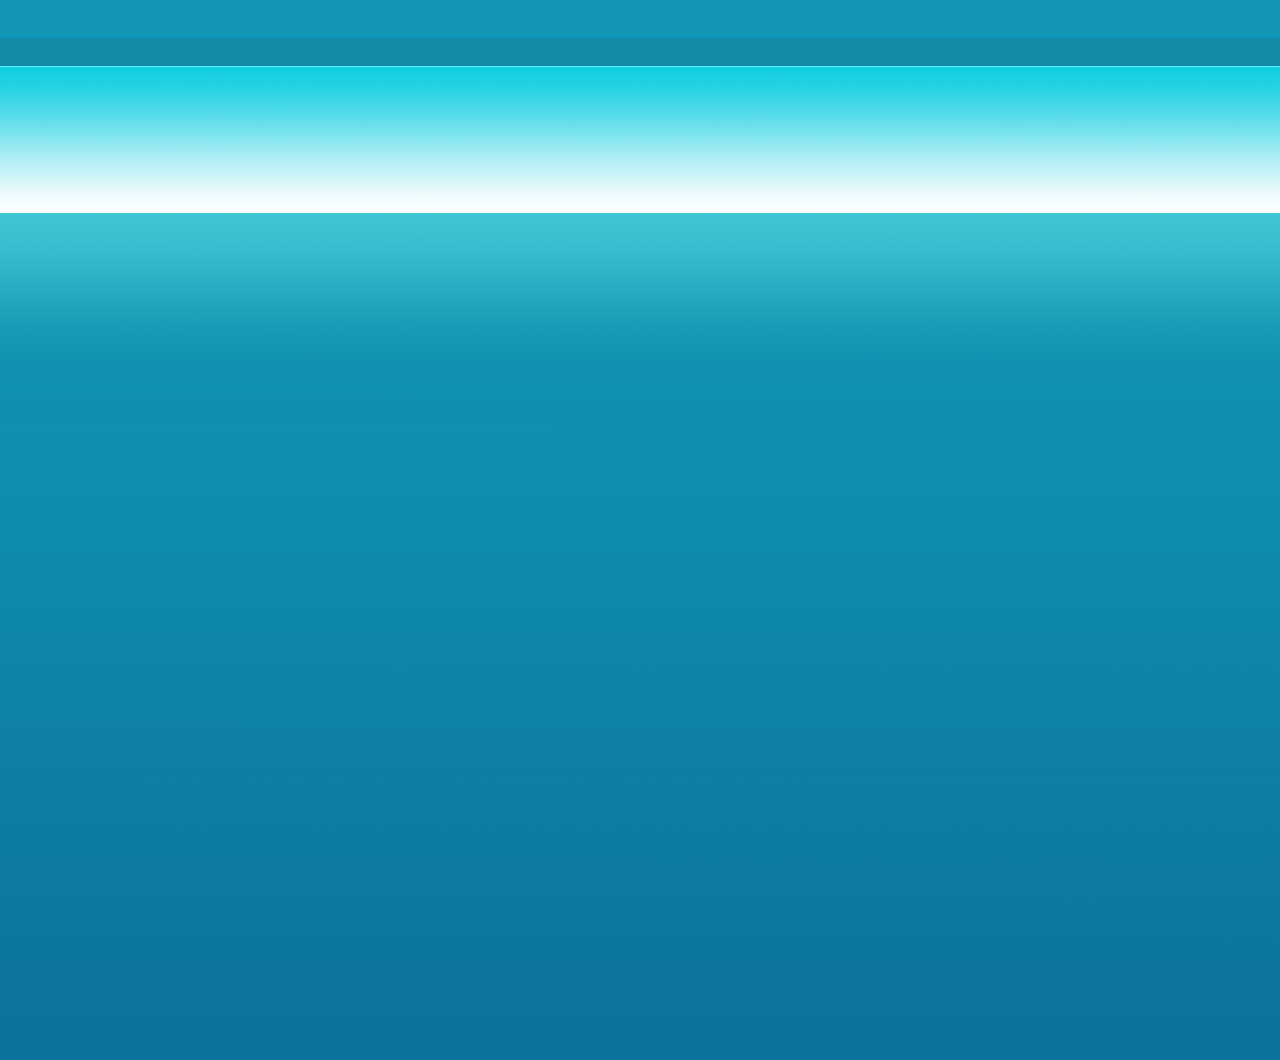
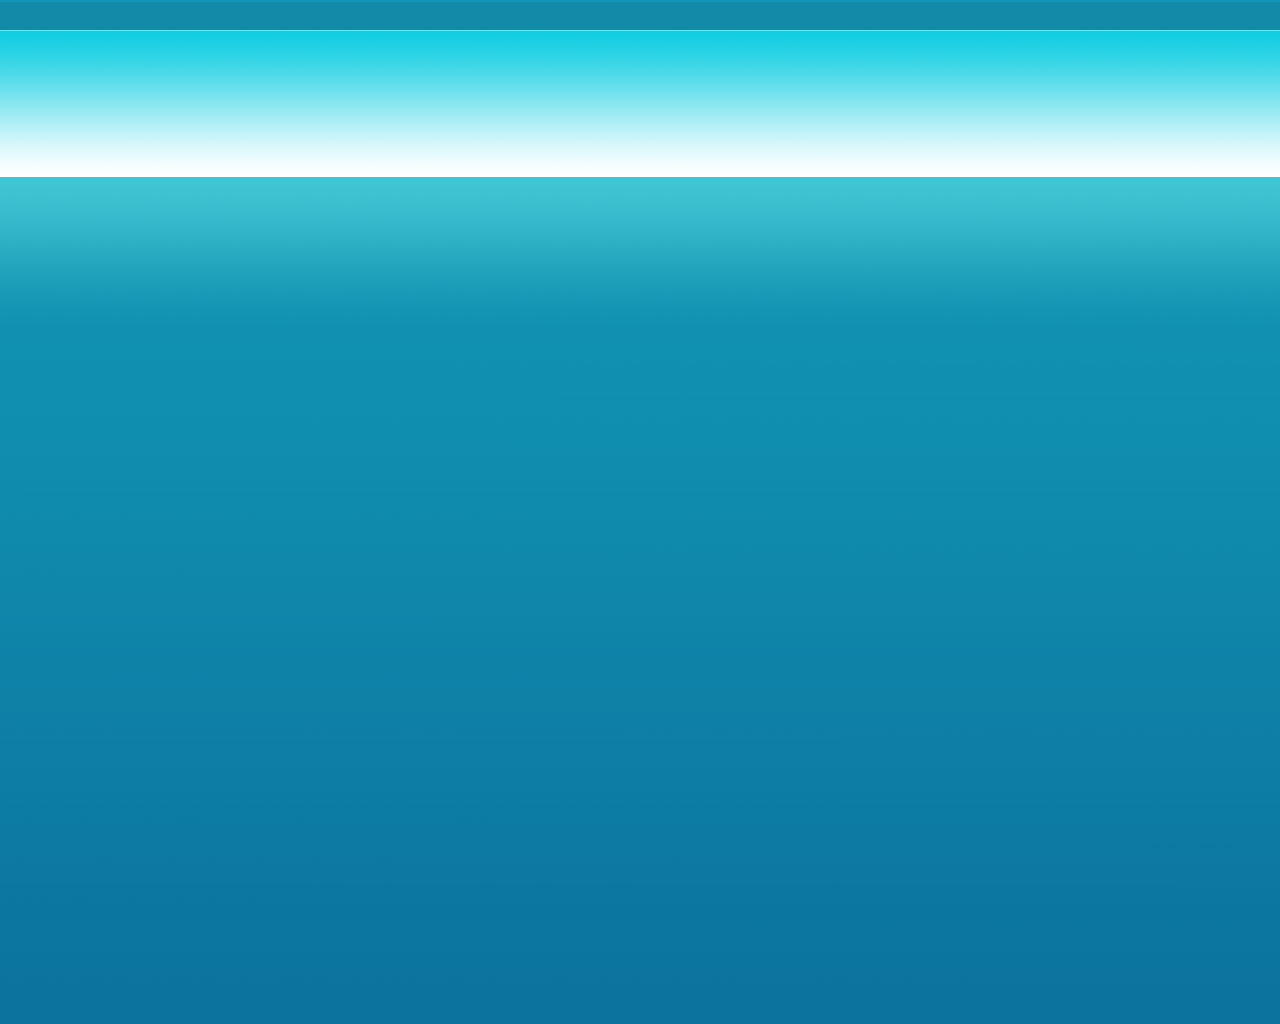
8-th try

Changed region(s): [[0.0, 0.0312, 1.0, 0.2188]]

diff --git a/GoIT/markup/lesson4/task4.css b/GoIT/markup/lesson4/task4.css
@@ -3,8 +3,8 @@
 	padding: 0;
 }
 body {
-    background: url(img/background.jpg) no-repeat center top fixed;
-    background-size: cover;
+    background: url(img/background.jpg) repeat-x center top fixed;
+	background-size: cover;
     font-family: Arial;
     font-size: 12px;
 }
@@ -21,10 +21,10 @@ body p {
 	width: 1000px;
 	height: 1000px;
  	margin: 0 auto;
-	box-shadow: 0 0 25px #333;
+	/* box-shadow: 0 0 5px #333; */
 	margin-top: -15px; 
 	border-bottom: 2px solid #031d28;
-	box-shadow: 5px 0px 5px 0px rgba(0,0,0,0.7), -5px 0px 5px 0px rgba(0,0,0,0.7);
+	box-shadow: 3px 0px 5px 0px rgba(0,0,0,0.7), -3px 0px 5px 0px rgba(0,0,0,0.7);
 }
 .top_part {
 	height: 175px;
@@ -42,7 +42,7 @@ body p {
 	margin-top: 10px;
 }
 .contacts p {
-	margin-top: -6px;
+	/* margin-top: -6px; */
 	color: #5fa5bb;
 	font-size: 10px;
 	text-align: left;
@@ -64,11 +64,13 @@ body p {
 	height: 237px;
 	width: 1000px;
 	background-image: url("img/photo.jpg");
+	border-bottom: 1px solid #138aa7;
 }
 .dropdown_menu {
 	height: 28px;
 	width: 1000px;
-	background-color: #343434;
+	background-color: #343434; 
+	
 	border-top: 1px solid #cacbcb;
 	box-shadow: 0px 5px #333;
 	box-shadow: 0px 5px 5px 0px rgba(0,0,0,0.75);
@@ -136,4 +138,7 @@ li:hover ul, li.over ul{
 }
 span {
 	font-weight: bold;
+}
+body > p {
+	margin-top: 7px;
 }
